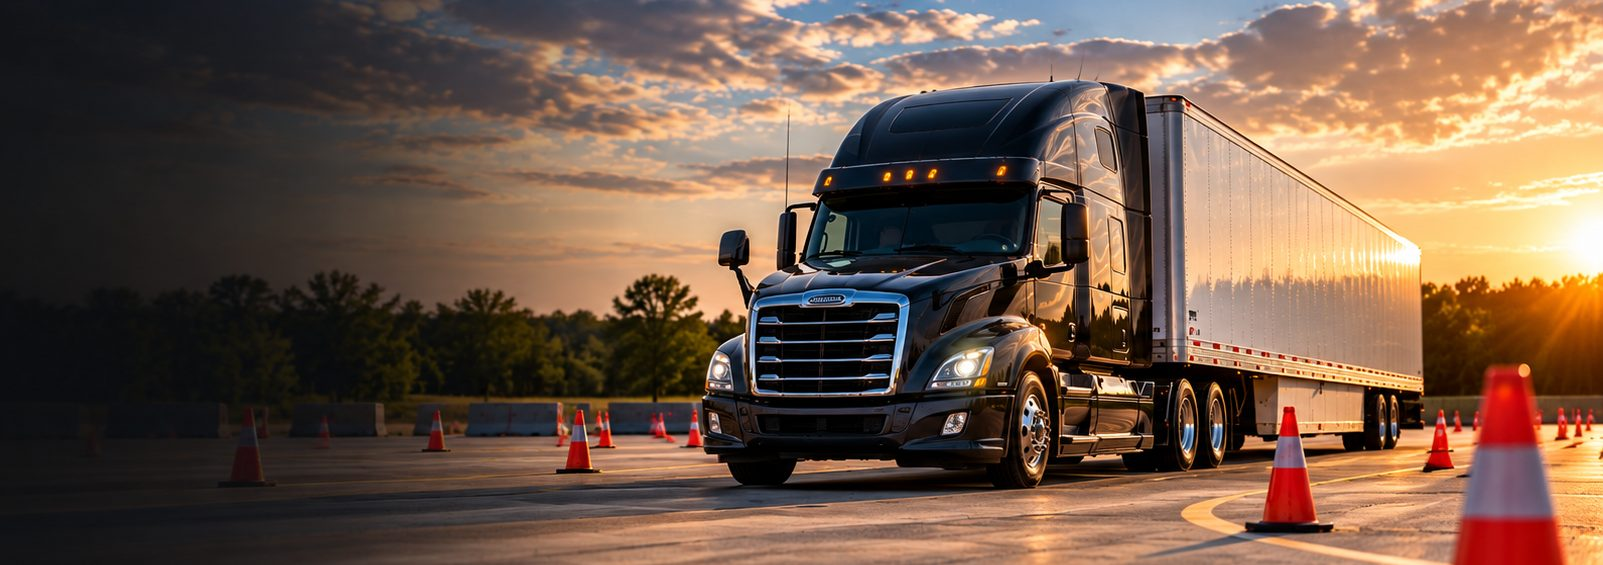
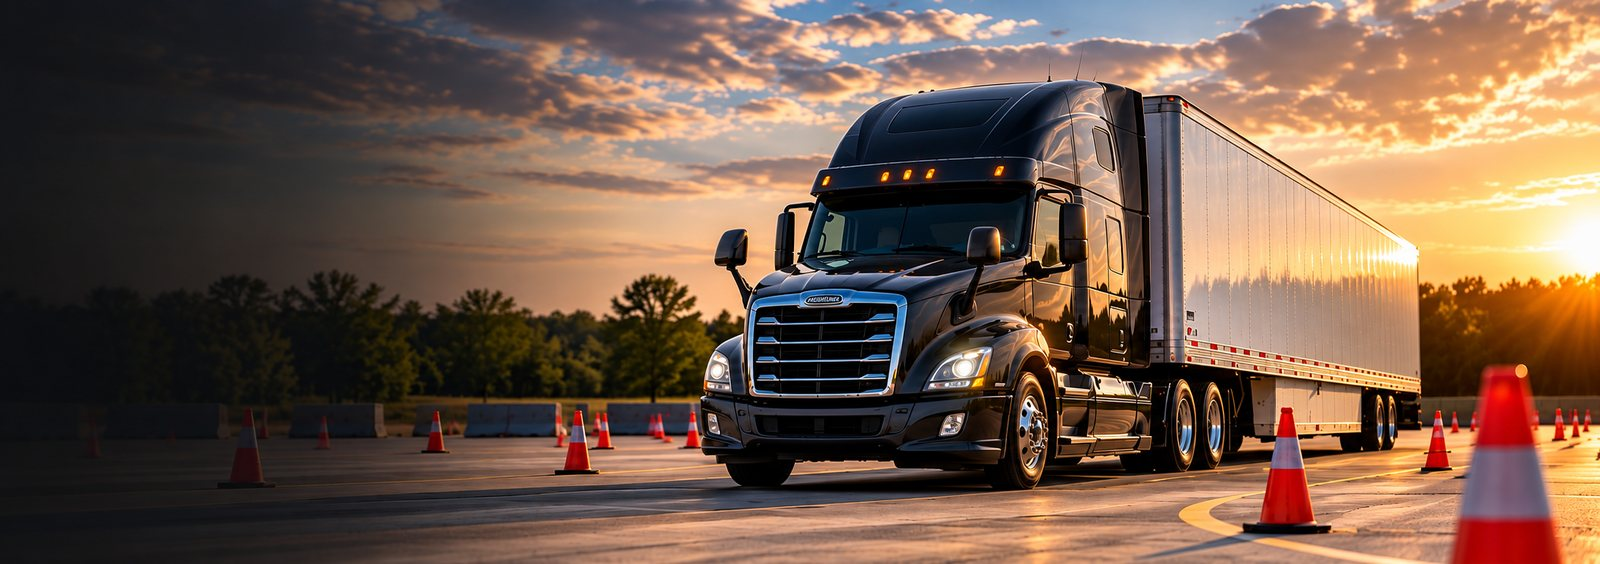
Update hero and truck photos and regenerate the share image
Replace the page hero photos and the home page truck photo with new
images. Save the heroes as real 1600px JPEGs (they were 2 MB PNGs named
.jpg) and convert the truck photo to truck-photo-3.jpg (1.9 MB to 194 KB).
Update the CSS and build scripts to use the new name.

Rebuild og-image.jpg and the theme screenshot from the new truck photo,
and remove the unused truck-photo-2.jpg.

diff --git a/css/styles.css b/css/styles.css
@@ -520,7 +520,7 @@ ol {
   inset: 0 0 0 auto;
   width: 64%;
   z-index: -1;
-  background: url("../assets/truck-photo-3.png") center 60% / cover no-repeat;
+  background: url("../assets/truck-photo-3.jpg") center 60% / cover no-repeat;
   animation: heroFade 1.2s ease-out both;
 }
 
@@ -1041,7 +1041,7 @@ ol {
   z-index: -1;
   background:
     linear-gradient(90deg, rgba(17, 19, 24, .95) 0%, rgba(17, 19, 24, .78) 55%, rgba(165, 15, 22, .7) 100%),
-    url("../assets/truck-photo-3.png") center 70% / cover no-repeat;
+    url("../assets/truck-photo-3.jpg") center 70% / cover no-repeat;
 }
 
 .cta-inner {

diff --git a/wp-theme/a1cdlschool/css/styles.css b/wp-theme/a1cdlschool/css/styles.css
@@ -520,7 +520,7 @@ ol {
   inset: 0 0 0 auto;
   width: 64%;
   z-index: -1;
-  background: url("../assets/truck-photo-3.png") center 60% / cover no-repeat;
+  background: url("../assets/truck-photo-3.jpg") center 60% / cover no-repeat;
   animation: heroFade 1.2s ease-out both;
 }
 
@@ -1041,7 +1041,7 @@ ol {
   z-index: -1;
   background:
     linear-gradient(90deg, rgba(17, 19, 24, .95) 0%, rgba(17, 19, 24, .78) 55%, rgba(165, 15, 22, .7) 100%),
-    url("../assets/truck-photo-3.png") center 70% / cover no-repeat;
+    url("../assets/truck-photo-3.jpg") center 70% / cover no-repeat;
 }
 
 .cta-inner {

diff --git a/tools/build_wp_theme.py b/tools/build_wp_theme.py
@@ -338,7 +338,7 @@ def build():
           " * @package A1CDLSchool\n */\n\nreturn array(\n" + "\n".join(titles) + "\n);\n")
 
     # Theme screenshot shown in Appearance > Themes (1200x900)
-    shot = Image.open(ROOT / "assets" / "truck-photo-3.png").convert("RGB")
+    shot = Image.open(ROOT / "assets" / "truck-photo-3.jpg").convert("RGB")
     w, h = shot.size
     scale = max(1200 / w, 900 / h)
     shot = shot.resize((round(w * scale), round(h * scale)), Image.LANCZOS)

diff --git a/tools/build_og_image.py b/tools/build_og_image.py
@@ -14,7 +14,7 @@ W, H = 1200, 630
 DARK = (17, 19, 24)
 RED = (227, 27, 35)
 
-PHOTO = "truck-photo-3.png"
+PHOTO = "truck-photo-3.jpg"
 PHOTO_WIDTH = 850  # photo is scaled to this width and pinned to the right edge
 PHOTO_TOP = 0.24   # share of the extra height cropped from the top
 
